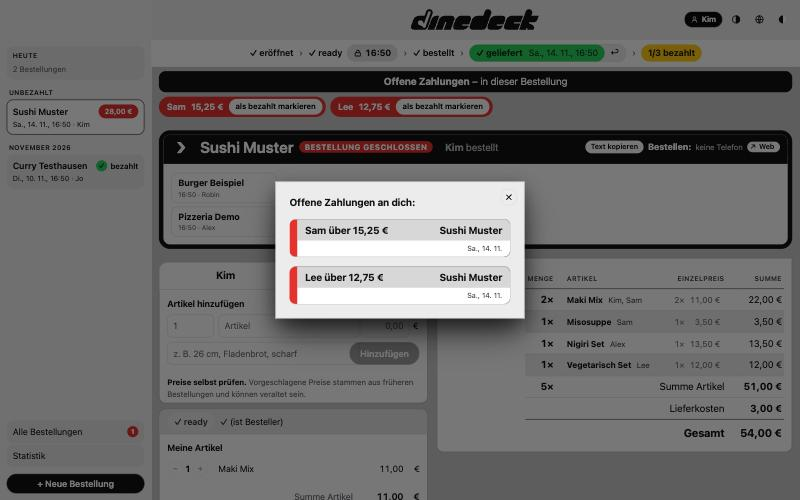
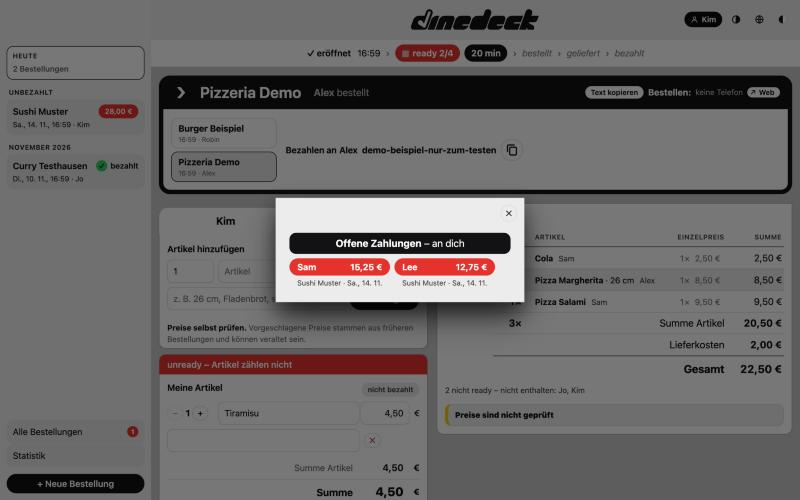
Benachrichtigung mit roten Chips und Kopf wie in der Bestellung, Wert und Einheit ohne Umbruch, README und Bildschirmfoto aktualisiert

diff --git a/public/notice.js b/public/notice.js
@@ -3,7 +3,7 @@ import { t } from '/i18n.js';
 import { DEFAULTS, NOTICE } from '/config.js';
 import { h, api, eur, me, lc, fmtDay, fmtClock, closeIcon } from '/util.js';
 import { owedByMe, owedToMe } from '/format.js';
-import { debtCard } from '/views/round/debt-row.js';
+import { debtLinkChip, debtsHead } from '/views/round/debt-row.js';
 
 const box = document.getElementById('pay-notice');
 const seenKey = 'bb_pay_notice';
@@ -25,15 +25,15 @@ export async function showOpenPayments() {
   const perDay = new Map();
   for (const d of details.values()) perDay.set(dayKey(d.created_at), (perDay.get(dayKey(d.created_at)) ?? 0) + 1);
   const when = (d) => `${fmtDay(d.created_at, false)}${perDay.get(dayKey(d.created_at)) > 1 ? `, ${fmtClock(d.created_at)}` : ''}`;
-  const link = (d, left, right) => debtCard(left, right, { tag: 'a', href: `#/r/${d.id}`, foot: when(d), onclick: () => box.replaceChildren() }); // Datum (und ggf. Uhrzeit) unten rechts
+  const link = (d, left, right, place) => debtLinkChip(left, right, `${place} · ${when(d)}`, { href: `#/r/${d.id}`, onclick: () => box.replaceChildren() });
   const owe = mine.flatMap((r) => {
     const d = details.get(r.id);
     const debt = d?.debts.find((x) => lc(x.user) === lc(me));
-    return debt ? [link(d, h('strong', null, `${d.restaurant.name} · ${t('an')} ${d.buyer}`), h('strong', null, eur(debt.amount_cents)))] : [];
+    return debt ? [link(d, `${t('an')} ${d.buyer}`, eur(debt.amount_cents), d.restaurant.name)] : [];
   });
   const owed = toMe.flatMap((r) => {
     const d = details.get(r.id);
-    return (d?.debts ?? []).map((x) => link(d, h('strong', null, `${x.user} ${t('über')} ${eur(x.amount_cents)}`), h('strong', null, d.restaurant.name)));
+    return (d?.debts ?? []).map((x) => link(d, x.user, eur(x.amount_cents), d.restaurant.name));
   });
   if (!owe.length && !owed.length) return;
   const key = `${lc(me)}:${ids.join(',')}`;
@@ -48,13 +48,11 @@ export async function showOpenPayments() {
   };
   const onKey = (e) => { if (e.key === 'Escape') close(); };
   const closeBtn = h('button', { class: 'btn small ghost chip-btn overlay-close', type: 'button', 'aria-label': t('Schließen'), onclick: close }, closeIcon());
-  const title = h('strong', { id: 'pay-notice-title' }, owe.length ? t('Du musst noch bezahlen:') : t('Offene Zahlungen an dich:'));
-  const card = h('div', { class: 'card overlay-card', role: 'dialog', 'aria-modal': 'true', 'aria-labelledby': 'pay-notice-title', tabindex: '-1' },
+  const block = (rest, chips) => h('section', { class: 'debts-block' }, debtsHead(rest), h('div', { class: 'status-debts' }, ...chips));
+  const card = h('div', { class: 'card overlay-card notice-card', role: 'dialog', 'aria-modal': 'true', 'aria-label': t('Offene Zahlungen'), tabindex: '-1' },
     closeBtn,
-    title,
-    ...(owe.length ? owe : []),
-    ...(owe.length && owed.length ? [h('strong', null, t('Offene Zahlungen an dich:'))] : []),
-    ...owed);
+    ...(owe.length ? [block(t('von dir'), owe)] : []),
+    ...(owed.length ? [block(t('an dich'), owed)] : []));
   box.append(card);
   box.onclick = (e) => { if (e.target === box) close(); }; // Klick neben die Karte schließt
   document.addEventListener('keydown', onKey);

diff --git a/public/views/round.js b/public/views/round.js
@@ -5,6 +5,7 @@ import { isCurrentRound } from '/group.js';
 import { orderContent, orderActions } from '/views/round/order.js';
 import { createStatus } from '/views/round/status.js';
 import { confirmDialog } from '/dialog.js';
+import { nbspUnits } from '/format.js';
 import { flagBadge as flagBadgeOf, renderUsers as renderUsersList } from '/views/round/users.js';
 import { payRows } from '/views/round/pay.js';
 import { app, eur, fmtWhen, fmtDate, fmtClock, lc, h, toast, api, act, me, contactLinks, fmtRemaining, fold, parseMoney, money, nav } from '/util.js';
@@ -386,7 +387,7 @@ export function roundView(id) {
     const itemRow = (i) => {
       const qtyCol = col('qty', h('div', { class: 'row nowrap gap-1' }, stepper(i, -1), h('strong', null, String(i.qty)), stepper(i, 1)));
       const del = h('button', { class: 'btn small danger', disabled: closed, title: t('Entfernen'), onclick: async () => { if ((await act(() => api('DELETE', `/items/${i.id}`))) !== null) showUndo(i); nav.current.refresh(); } }, '✕');
-      if (closed) return h('div', { class: 'item-row item-line' }, qtyCol, col('art', i.article), col('var', h('span', { class: 'muted' }, i.variant)), col('price', priceCell(i.price_cents)));
+      if (closed) return h('div', { class: 'item-row item-line' }, qtyCol, col('art', i.article), col('var', h('span', { class: 'muted' }, nbspUnits(i.variant))), col('price', priceCell(i.price_cents)));
       const field = (key, value, max, extra) => h('input', { value, maxlength: max, autocomplete: 'off', ...extra, onchange: async (e) => { await act(() => api('PATCH', `/items/${i.id}`, { [key]: e.target.value })); nav.current.refresh(); } });
       return h('div', { class: 'item-row item-line' }, qtyCol, col('art', field('article', i.article, LIMITS.article, { required: true, 'aria-label': t('Artikel') })), col('var', field('variant', i.variant || '', LIMITS.variant, { 'aria-label': t('Variante (optional)') })), col('price', h('div', { class: 'price-in' }, field('price', money(i.price_cents), 12, { inputmode: 'decimal', 'aria-label': t('Preis') }), h('span', { class: 'eur-box' }, '€'))), col('act', del));
     };

diff --git a/test/format.test.js b/test/format.test.js
@@ -1,6 +1,6 @@
 import { test } from 'node:test';
 import assert from 'node:assert/strict';
-import { fmtRemaining, genitive, payHref, joinList, isToday, centsToInput, roundStage, owedByMe, owedToMe, shortVariant, bellStep } from '../public/format.js';
+import { fmtRemaining, genitive, payHref, joinList, isToday, centsToInput, roundStage, owedByMe, owedToMe, shortVariant, bellStep, nbspUnits } from '../public/format.js';
 import { isCurrentRound, startRound } from '../public/group.js';
 
 const MIN = 60000;
@@ -161,4 +161,16 @@ test('bellStep: läutet je Schwelle einmal, nimmt bei verpassten die kleinste er
   assert.equal(bellStep(0, at, Infinity), null, 'abgelaufen: keine Glocke');
   assert.equal(bellStep(0, [60000, 0], 60000), 0, 'Schwelle 0: läutet zum Ablauf');
   assert.equal(bellStep(-5000, [60000, 0], 0), null, 'nicht noch einmal');
+});
+
+test('nbspUnits: Zahl und Einheit bleiben zusammen (geschütztes Leerzeichen)', () => {
+  const nb = '\u00a0';
+  assert.equal(nbspUnits('26 cm, Fladenbrot'), `26${nb}cm, Fladenbrot`);
+  assert.equal(nbspUnits('0,5 l und 330 ml'), `0,5${nb}l und 330${nb}ml`);
+  assert.equal(nbspUnits('2 Stück'), `2${nb}Stück`);
+  assert.equal(nbspUnits('26 CM'), `26${nb}CM`, 'Groß/Klein egal');
+  assert.equal(nbspUnits('extra Schinken'), 'extra Schinken', 'ohne Zahl unverändert');
+  assert.equal(nbspUnits('26 cmx'), '26 cmx', 'nur ganze Einheiten');
+  assert.equal(nbspUnits(''), '');
+  assert.equal(nbspUnits(null), '');
 });

diff --git a/public/style.css b/public/style.css
@@ -614,7 +614,12 @@ a.debt-card:hover > .card-head { background: color-mix(in srgb, var(--fg) 10%, v
 .overlay-card .overlay-close { position: absolute; top: 0.75rem; right: 0.75rem; } /* gleicher Abstand zu oberem und rechtem Rand */
 .overlay-card:focus { outline: none; }
 .overlay-card .overlay-close:hover { background: var(--bad); color: var(--on-bad); border-color: transparent; outline: none; } /* Schließen: beim Überfahren rot gefüllt, ohne Rand */
-.overlay-card > strong:first-of-type { padding-right: calc(var(--chip) + 0.5rem); }
+.overlay-card .debts-block { width: 100%; max-width: none; margin: 0; }
+.overlay-card.notice-card { padding-top: calc(var(--chip) + 2rem); gap: 1.5rem; } /* Platz unter dem Schließen-Knopf, Abschnitte klar getrennt */
+.debt-entry { display: grid; gap: 0.25rem; color: inherit; text-decoration: none; } /* Overlay: Chip in voller Breite, Beschriftung darunter */
+.debt-entry .debt-chip { justify-content: space-between; padding-right: 0.875rem; }
+.debt-caption { font-size: var(--fs-sm); color: var(--pane-muted); padding: 0 0.875rem; }
+.debt-entry:hover .debt-chip { filter: brightness(1.08); }
 .qr-bg { fill: var(--qr-light); }
 .qr-fg { fill: var(--qr-dark); }
 .round-head.folded .fold-item { display: none; }

diff --git a/public/views/round/status.js b/public/views/round/status.js
@@ -1,7 +1,7 @@
 // Statusleiste oben: Ablaufzeile, Hinweise, offene Beträge
 import { t } from '/i18n.js';
 import { TIMING, DEFAULTS } from '/config.js';
-import { debtChipEl } from '/views/round/debt-row.js';
+import { debtChipEl, debtsHead } from '/views/round/debt-row.js';
 import { fmtWhen, fmtClock, fmtRemaining, lockIcon, undoIcon, h, lc, me } from '/util.js';
 
 export function createStatus({ banners, toggle, decide, undo, advance, etaField, time, autoClose }) {
@@ -97,7 +97,7 @@ export function createStatus({ banners, toggle, decide, undo, advance, etaField,
     // Offene Zahlungen: roter Kopf (Markierungsfarbe), darunter je Zahlung ein roter Chip (nur wenn es welche gibt)
     if (d.ordered_at && d.debts.length) {
       b.push(h('section', { class: 'debts-block' },
-        h('div', { class: 'debts-head' }, t('Offene Zahlungen'), h('span', { class: 'debts-head-rest' }, ` – ${t('in dieser Bestellung')}`)),
+        debtsHead(t('in dieser Bestellung')),
         h('div', { class: 'status-debts' }, ...d.debts.map(debtRow))));
     }
     for (const u of d.pending) {

diff --git a/public/views/round/debt-row.js b/public/views/round/debt-row.js
@@ -16,3 +16,15 @@ export function debtChipEl(x, { asking, onClick }) {
     h('strong', null, eur(x.amount_cents)),
     onClick ? h('button', { class: 'debt-pay' + (asking ? ' confirm' : ''), type: 'button', onclick: onClick }, asking ? t('ist bezahlt?') : t('als bezahlt markieren')) : null);
 }
+
+/** Kopfband „Offene Zahlungen – <Zusatz>“, in der Bestellung und im Overlay gleich. */
+export function debtsHead(rest, ...extra) {
+  return h('div', { class: 'debts-head' }, t('Offene Zahlungen'), h('span', { class: 'debts-head-rest' }, ` – ${rest}`), ...extra);
+}
+
+/** Eintrag im Overlay: roter Chip (Name, Betrag) wie in der Bestellung, darunter außerhalb Restaurant und Datum; Verweis auf die Bestellung. */
+export function debtLinkChip(left, right, caption, attrs) {
+  return h('a', { class: 'debt-entry', ...attrs },
+    h('div', { class: 'debt-chip' }, h('strong', null, left), h('strong', null, right)),
+    h('div', { class: 'debt-caption' }, caption));
+}

diff --git a/public/views/round/order.js b/public/views/round/order.js
@@ -1,6 +1,6 @@
 // Bestellliste: Gruppentabelle, Summen und Text zum Kopieren
 import { t } from '/i18n.js';
-import { shortVariant } from '/format.js';
+import { shortVariant, nbspUnits } from '/format.js';
 import { eur, h, telHref, flashButton } from '/util.js';
 
 export function orderText(d) {
@@ -12,7 +12,7 @@ export function orderText(d) {
 
 // Ein Nutzer oder keine Variante: alles in einer Zeile; sonst Artikel, darunter Variante · Namen
 function articleCell(g) {
-  const variant = shortVariant(g.variant);
+  const variant = nbspUnits(shortVariant(g.variant));
   const who = g.users.map((x) => (x.qty > 1 ? `${x.user} ${x.qty}×` : x.user)).join(', ');
   const unit = h('span', { class: 'muted unit-inline' }, `${g.qty}× à ${eur(g.price_cents)}`);
   if (!variant || g.users.length < 2) return [h('strong', null, g.article), variant ? ` · ${variant}` : '', unit, h('span', { class: 'muted who' }, who)];

diff --git a/public/views/round/users.js b/public/views/round/users.js
@@ -2,6 +2,7 @@
 import { t } from '/i18n.js';
 import { TIMING } from '/config.js';
 import { eur, h, lc, me } from '/util.js';
+import { nbspUnits } from '/format.js';
 
 let payConfirm = null; // { user, timer }: wartet auf die zweite Bestätigung
 
@@ -48,7 +49,7 @@ function itemsTable(u, single, total) {
       null,
       u.items.map((i, n) => h('tr', null,
         h('td', { class: 'num' }, `${i.qty}×`),
-        h('td', null, i.article, i.variant ? h('span', { class: 'muted' }, ` · ${i.variant}`) : null),
+        h('td', null, i.article, i.variant ? h('span', { class: 'muted' }, ` · ${nbspUnits(i.variant)}`) : null),
         h('td', { class: 'num unit' }, single ? null : eur(i.price_cents)),
         h('td', { class: 'num total' }, single ? h('strong', { class: 'text-fg' }, eur(i.price_cents)) : total && n === last ? h('strong', { class: 'text-fg' }, total) : null)))
     )

diff --git a/public/i18n.js b/public/i18n.js
@@ -104,13 +104,11 @@ const EN = {
   'Nur Unbezahlte': 'Unpaid only',
   'Details ein-/ausklappen': 'Show or hide details',
   'Schließen': 'Close',
-  'Du musst noch bezahlen:': 'You still have to pay:',
   'Bezahl-Link kopieren': 'Copy payment link',
   'Kopiert': 'Copied',
   'Adresse kopieren': 'Copy address',
   '1 offene Zahlung': '1 open payment',
   '{n} offene Zahlungen': '{n} open payments',
-  'Offene Zahlungen an dich:': 'Open payments to you:',
   'über': 'of',
   'an': 'to',
   'Bestellen': 'Place order',
@@ -140,6 +138,8 @@ const EN = {
   'und': 'and',
   'Offene Zahlungen': 'Open payments',
   'in dieser Bestellung': 'in this order',
+  'von dir': 'from you',
+  'an dich': 'to you',
   '{paid}/{total} bezahlt': '{paid}/{total} paid',
   'Noch niemand dabei.': 'Nobody yet.',
   ' (Besteller)': ' (buyer)',

diff --git a/public/format.js b/public/format.js
@@ -94,3 +94,10 @@ export function bellStep(left, thresholds, last) {
   const hit = thresholds.filter((t) => left <= t && t < last && (left > 0 || t === 0)); // nach Ablauf nur die Schwelle 0
   return hit.length ? Math.min(...hit) : null;
 }
+
+const unitRe = () => new RegExp(`(\\d) (${VARIANT_SHORT.units.map((u) => u.replace('.', '\\.')).join('|')})(?![\\p{L}\\p{N}])`, 'giu');
+
+/** Zahl und Einheit („26 cm“) mit geschütztem Leerzeichen verbinden, damit sie nie am Zeilenende getrennt werden (nur Anzeige). */
+export function nbspUnits(text) {
+  return String(text ?? '').replace(unitRe(), '$1\u00a0$2');
+}

diff --git a/public/config.js b/public/config.js
@@ -35,6 +35,7 @@ export const DEFAULTS = {
 export const VARIANT_SHORT = {
   filler: ['mit', 'zusätzlich'], // fallen weg
   joiners: ['und'], // werden zu Komma
+  units: ['mm', 'cm', 'm', 'g', 'kg', 'cl', 'dl', 'ml', 'l', 'stück', 'stk', 'st.'], // Einheiten: Zahl und Einheit werden nicht getrennt (geschütztes Leerzeichen)
 };
 
 /** Listen und Auswertungen. */

diff --git a/README.md b/README.md
@@ -14,14 +14,14 @@ Vanilla JS, no build step, no dependencies. Node ≥ 22.13 (`node:sqlite`), live
   - After closing the line shows the lock with the closing time, `+5` is greyed out, and the arrow reopens. Reopening switches "close when ready" off.
   - After `ordered` a delivery time field appears before `delivered`; a new value is saved immediately and shown again after a reload.
 - **Ready and paid** are independent per-user flags. Any change to your items resets your ready flag. Only the user or the buyer can set paid. Ready is yellow, unready red. The payment state is shown in colour only by the stripe of the user card (green paid, red unpaid); the pill stays grey (`✓ paid`, `mark as paid` for those who may set it).
-- **Open payments:** a black header "Open payments – in this order" and one red chip per person (name, amount, white button "mark as paid"), only when there are any. When the order is delivered or paid, the flow shows `n/m paid` (always, also for one payer); "all paid" is a dark mark that does not compete with the green current step.
+- **Open payments:** a black header "Open payments – in this order" (in the return overlay "– from you" / "– to you") and one red chip per person (name, amount, white button "mark as paid"), only when there are any. When the order is delivered or paid, the flow shows `n/m paid` (always, also for one payer); "all paid" is a dark mark that does not compete with the green current step.
 - **Deadline** (default 20 min). When it expires or an admin/creator/buyer closes the order, items of unready users stay visible but do not count. Optional auto-close once everyone is ready; new users then need approval.
 - **Time warnings:** the remaining time pulses grey from 10 to 5 min, then turns red with a glowing pulse. From 3 min the logo row flashes red for 1 s every 6 s (the sidebar band flashes with it). A telephone ring plays at 5, 3 and 1 min remaining (`SOUND.bellAtMs`) if a recording is present (see Sound). Thresholds, tempo and volume are in `public/config.js` and `public/style.css`; reduced-motion settings switch the animation off.
 - **Locked from "ordered":** no item or user changes, deadline and buyer data frozen; the step arrows take it back (delivered first, then ordered).
 - **Buyer and payment:** buyer, PayPal address and delivery fee (split equally among users with items). PayPal address (per buyer) and fee (per restaurant) are remembered. The pay block offers a link with the user's amount and a QR code of it. The address is visible only to participants, buyer, creator and admins.
 - **Order header:** collapsed by default (the arrow is a font character at the size of the name and turns when it opens), the choice is remembered per order. The restaurant row (copy text, call, order phone and web link) is always visible.
 - **Phones (up to 30 em):** compact layout. The order header puts the arrow and the restaurant name on one line, followed by the closed note and the buyer; the contact row shows "copy text", the phone number and the web link (no "Order:" label, no separate call button). The pay block is one rounded button with the amount and the PayPal address (the pay link itself) with the QR code behind it (tap to enlarge); there is no copy button. The control line wraps onto two lines, tab labels are larger, and a step and its undo arrow stay together.
-- **Notification on return:** after opening the app, a centred overlay lists the open payments **from you** ("You still have to pay") and **to you** as buyer ("Open payments to you"), each as a card with restaurant and date (time too when two orders share a day). Only earlier days; it appears once per session and state (`NOTICE.showEveryLoad` in `public/config.js` shows it on every load for testing). Close with ✕, Escape or a click beside it.
+- **Notification on return:** after opening the app, a centred overlay lists the open payments **from you** ("You still have to pay") and **to you** as buyer ("Open payments to you"), each as a red chip (name, amount; the same chips and header as in an order) with restaurant and date below it (time too when two orders share a day). Only earlier days; it appears once per session and state (`NOTICE.showEveryLoad` in `public/config.js` shows it on every load for testing). Close with ✕, Escape or a click beside it.
 - **Deleting an order:** only the creator or an admin, in the expanded header ("Delete order"), after a confirmation dialog. Items and payment states are deleted with it.
 - **Navigation:** sidebar ("Today" is always shown, with "no order yet" when there is none; open / unpaid / closed, live; the count of orders with unpaid items on "All orders") docked from 1280 px and as a drawer with a menu button below, the list also appears on the start page then. "All orders" can be filtered to unpaid only. Each order has its own URL (`#/r/<id>`). Orders from today show only the time.
 - **Statistics:** top restaurant, favourite dish per restaurant, average item price and order total. No per-user statistics. Admins can export all item rows as JSON.
